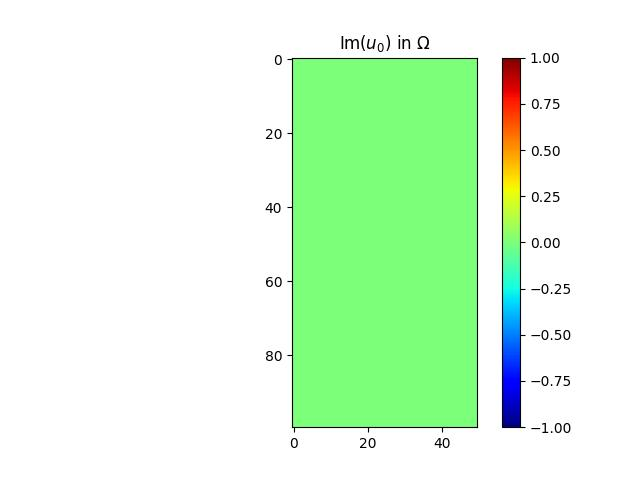
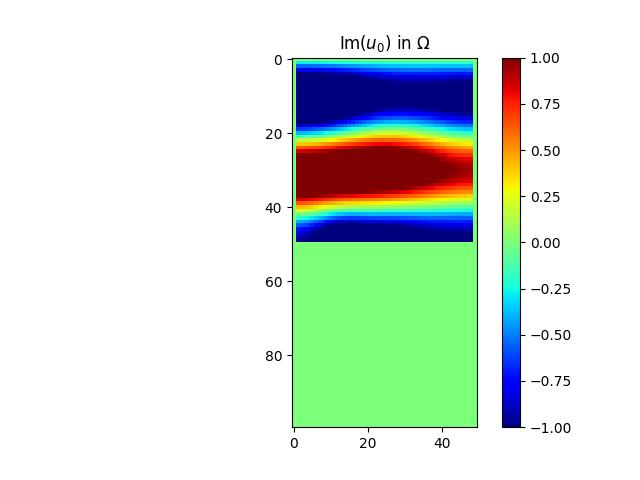
Tracés de u0 pour freq = 420Hz, max local

Changed region(s): [[0.4375, 0.125, 0.75, 0.5312]]

diff --git a/energy_freq.py b/energy_freq.py
@@ -192,11 +192,11 @@ plt.plot(filtered_freq, energy_values_level_0, label='Level 0', linewidth=2, mar
 # plt.plot(filtered_freq, energy_values_level_2, label='Level 2', linewidth=2, marker='o')
 plt.xlabel("Frequency (Hz)")
 plt.ylabel("Energy")
-plt.title("Energy in function of Frequency for porous on reflective")
+plt.title("Energy in function of Frequency for porous on reflective")   
 plt.legend()
 plt.grid(True)
 plt.show()
 
 # Enlevez le # ici si vous voulez afficher les cartes thermiques du u0 et chi0, mettre un wavenumber qui maximise l'énergie par exemple à la place de " ... "
-
-# fractal_shape(...) 
+freq = 420
+fractal_shape(2*pi*freq/(sound_speed)) 
